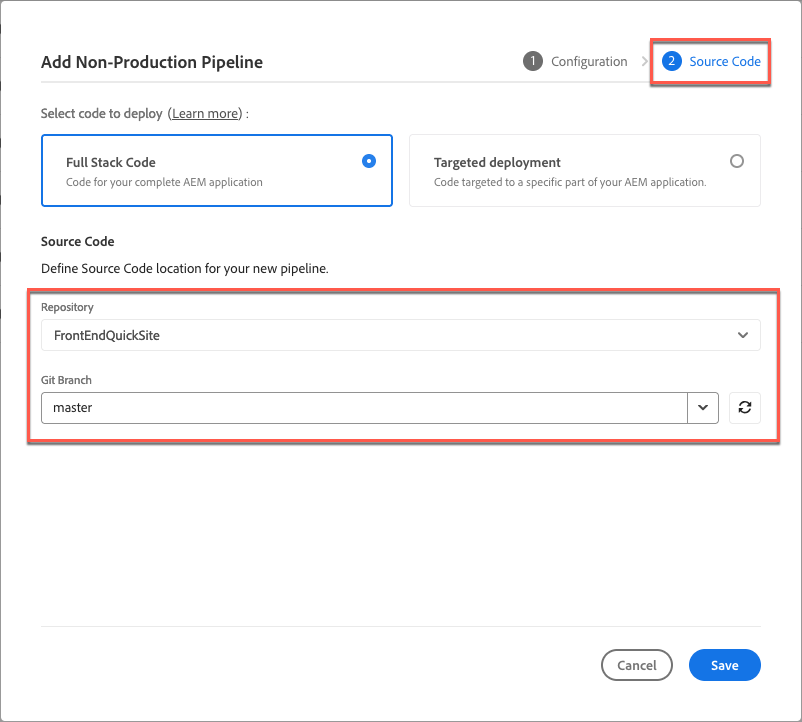
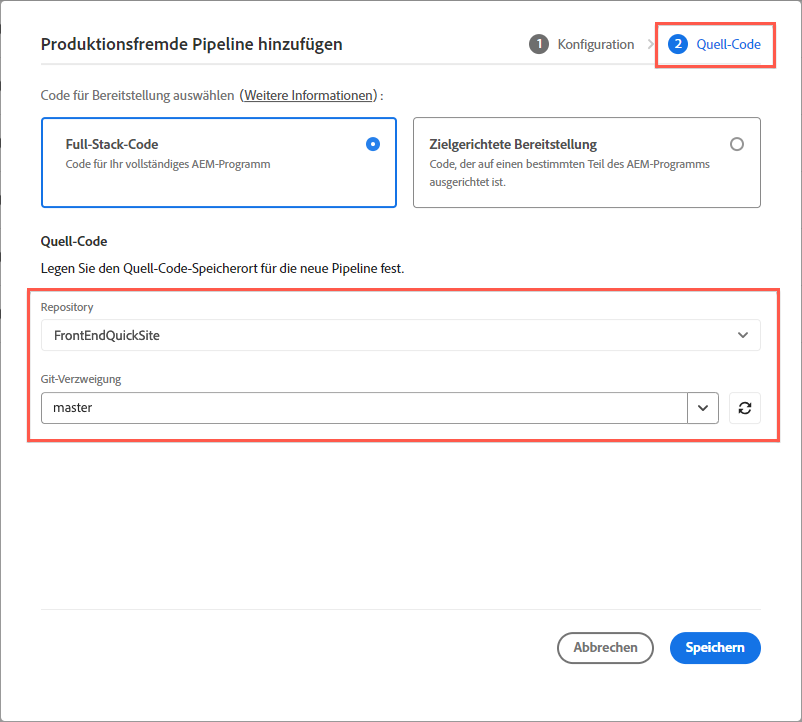
Updated by task 'AUTO_HANDOFF_1728480917442'  Changes for core/source commit https://git.corp.adobe.com/AdobeDocs/experience-manager-cloud-manager.en/commit/593ab468fb09900d061a4d820b8a1a33e2047237

diff --git a/help/managing-code/external-repositories.md b/help/managing-code/external-repositories.md
@@ -1,92 +1,92 @@
 ---
-title: Hinzufügen externer Repositorys in Cloud Manager (früher Adobe Experience Manager)
-description: Erfahren Sie, wie Sie ein externes Repository zu Cloud Manager hinzufügen. Cloud Manager unterstützt die Integration mit GitHub-, GitLab- und Bitbucket-Repositorys.
+title: Hinzufügen von externen Repositorys in Cloud Manager (Early Adopter)
+description: Erfahren Sie, wie Sie in Cloud Manager ein externes Repository hinzufügen. Cloud Manager unterstützt die Integration mit GitHub-, GitLab- und Bitbucket-Repositorys.
 source-git-commit: 054c214be3c8c6e8a8bd4691b70ae2098263ef5b
-workflow-type: tm+mt
+workflow-type: ht
 source-wordcount: '740'
-ht-degree: 6%
+ht-degree: 100%
 
 ---
 
 
-# Hinzufügen externer Repositorys in Cloud Manager {#external-repositories}
+# Hinzufügen von externen Repositorys in Cloud Manager {#external-repositories}
 
-Erfahren Sie, wie Sie ein externes Repository zu Cloud Manager hinzufügen. Cloud Manager unterstützt die Integration mit GitHub-, GitLab- und Bitbucket-Repositorys.
+Erfahren Sie, wie Sie in Cloud Manager ein externes Repository hinzufügen. Cloud Manager unterstützt die Integration mit GitHub-, GitLab- und Bitbucket-Repositorys.
 
 >[!NOTE]
 >
 >Diese Funktion ist nur für das [Early-Adopter-Programm](/help/release-notes/current.md#early-adoption) verfügbar.
 
-## Externes Repository konfigurieren
+## Konfigurieren eines externen Repositorys
 
 Die Konfiguration eines externen Repositorys in Cloud Manager erfolgt in drei Schritten:
 
-1. [Fügen Sie ein externes Repository hinzu](#add-external-repo), um es einem ausgewählten Programm hinzuzufügen.
-1. Stellen Sie ein Zugriffstoken für das externe Repository bereit.
+1. Fügen Sie einem ausgewählten Programm [ein externes Repository hinzu](#add-external-repo).
+1. Stellen Sie ein Zugriffs-Token für das externe Repository bereit.
 1. Validieren Sie die Eigentümerschaft des externen Repositorys.
 
 
-## Externes Repository hinzufügen {#add-ext-repo}
+## Hinzufügen eines externen Repositorys {#add-ext-repo}
 
 1. Melden Sie sich unter [my.cloudmanager.adobe.com](https://my.cloudmanager.adobe.com/) bei Cloud Manager an und wählen Sie die entsprechende Organisation aus.
 
 1. Wählen Sie in der Konsole **[Meine Programme](/help/getting-started/navigation.md#my-programs-console) das Programm aus, mit dem Sie ein externes Repository verknüpfen möchten.
 
 
-1. Wählen Sie im Seitenmenü unter **Dienste** das Symbol ![Ordner](https://spectrum.adobe.com/static/icons/workflow_18/Smock_Folder_18_N.svg) **Repositorys**.
+1. Wählen Sie im Seitenmenü unter **Services** ![Ordnersymbol](https://spectrum.adobe.com/static/icons/workflow_18/Smock_Folder_18_N.svg) **Repositorys** aus.
 
-   ![Die Seite &quot;Repositorys&quot;](/help/managing-code/assets/repositories-tab.png)
+   ![Die Seite „Repositorys“](/help/managing-code/assets/repositories-tab.png)
 
-1. Klicken Sie in der rechten oberen Ecke der Seite **Repositorys** auf **Repository hinzufügen**.
+1. Klicken Sie oben rechts auf der Seite **Repositorys** auf **Repository hinzufügen**.
 
 1. Wählen Sie im Dialogfeld **Repository hinzufügen** die Option **Privates Repository** aus, um ein externes Git-Repository mit Ihrem Programm zu verknüpfen.
 
    ![Eigenes Repository hinzufügen](/help/managing-code/assets/repositories-private-repo-type.png)
 
-1. Geben Sie in jedem Feld die folgenden Details zu Ihrem Repository an:
+1. Geben Sie in jedem Feld jeweils die folgenden Details zu Ihrem Repository an:
 
    | Feld | Beschreibung |
    | --- | --- |
-   | **Repository-Name** | Erforderlich. Ein ausdrucksstarker Name für Ihr neues Repository. |
-   | **Repository-URL** | Erforderlich. Die URL des Repositorys.<br><br> Wenn Sie ein von GitHub gehostetes Repository verwenden, muss der Pfad in `.git` enden.<br>Beispiel: *`https://github.com/org-name/repo-name.git`* (URL-Pfad dient nur zu Veranschaulichungszwecken).<br><br>Wenn Sie ein externes Repository verwenden, muss es das folgende URL-Pfadformat verwenden:<br>`https://git-vendor-name.com/org-name/repo-name.git`<br> oder <br>`https://self-hosted-domain/org-name/repo-name.git`<br> und mit Ihrem Git-Anbieter übereinstimmen. |
-   | **Repository-Typ auswählen** | Erforderlich. Wählen Sie den von Ihnen verwendeten Repository-Typ aus: **GitHub**, **GitLab** oder **BitBucket**. Wenn der obige Repository-URL-Pfad den Namen des Git-Anbieters enthält, z. B. GitLab oder Bitbucket, ist der Repository-Typ bereits für Sie vorausgewählt. |
-   | **Beschreibung** | Optional. Eine detaillierte Beschreibung des Repositorys. |
+   | **Repository-Name** | Erforderlich. Ein aussagekräftiger Name für Ihr neues Repository. |
+   | **Repository-URL** | Erforderlich. Die URL des Repositorys.<br><br> Wenn Sie ein von GitHub gehostetes Repository verwenden, muss der Pfad mit `.git` enden.<br>Beispiel: *`https://github.com/org-name/repo-name.git`* (URL-Pfad dient nur zu Illustrationszwecken).<br><br>Wenn Sie ein externes Repository verwenden, muss es das folgende URL-Pfadformat verwenden:<br>`https://git-vendor-name.com/org-name/repo-name.git`<br> oder <br>`https://self-hosted-domain/org-name/repo-name.git`<br>. Außerdem muss es mit Ihrem Git-Anbieter übereinstimmen. |
+   | **Repository-Typ auswählen** | Erforderlich. Wählen Sie den von Ihnen verwendeten Repository-Typ aus: **GitHub**, **GitLab** oder **BitBucket**. Wenn der obige Repository-URL-Pfad den Namen des Git-Anbieters enthält, z. B. GitLab oder Bitbucket, ist der Repository-Typ bereits für Sie vorausgewählt. |
+   | **Beschreibung** | Optional. Eine längere Beschreibung des Repositorys. |
 
-1. Wählen Sie **Speichern** aus, um das Repository hinzuzufügen.
+1. Wählen Sie **Speichern**, um das Repository hinzuzufügen.
 
-1. Geben Sie im Dialogfeld **Validierung der Eigentümerschaft des privaten Repositorys** ein Zugriffstoken an, um die Eigentümerschaft des externen Repositorys zu validieren, sodass Sie darauf zugreifen können.
+1. Geben Sie im Dialogfeld **Validierung der Eigentümerschaft eines privaten Repositorys** ein Zugriffs-Token an, um die Eigentümerschaft des externen Repositorys zu validieren, sodass Sie darauf zugreifen können.
 
-   ![Auswählen eines vorhandenen Zugriffstokens für ein Repository](/help/managing-code/assets/repositories-exisiting-access-token.png)
-   *Auswählen eines vorhandenen Zugriffstokens für ein BitBucket-Repository*
+   ![Auswählen eines vorhandenen Zugriffs-Tokens für ein Repository](/help/managing-code/assets/repositories-exisiting-access-token.png)
+   *Auswählen eines vorhandenen Zugriffs-Tokens für ein BitBucket-Repository.*
 
-   | Tokentyp | Beschreibung |
+   | Token-Typ | Beschreibung |
    | --- | --- |
-   | **Vorhandenes Zugriffs-Token verwenden** | Wenn Sie bereits ein Repository-Zugriffstoken für Ihre Organisation bereitgestellt haben und Zugriff auf mehrere Repositorys haben, können Sie ein vorhandenes Token auswählen. Verwenden Sie die Dropdownliste **Token-Name** , um das Token auszuwählen, das Sie auf das Repository anwenden möchten. Fügen Sie andernfalls ein neues Zugriffstoken hinzu. |
-   | **Neues Zugriffstoken hinzufügen** | **Repository-Typ: GitHub**<br> ・ Geben Sie im Textfeld **Token-Name** einen Namen für das Zugriffstoken ein, das Sie erstellen.<br> ・ Erstellen Sie ein persönliches Zugriffstoken, indem Sie die Anweisungen in der [GitHub-Dokumentation](https://docs.github.com/en/enterprise-server@3.14/authentication/keeping-your-account-and-data-secure/managing-your-personal-access-tokens) befolgen.<br> ・ erforderliche Berechtigungen:<br>  ・ `Read access to metadata`.<br>  ・ `Read and write access to code and pull requests`.<br> ・ Fügen Sie im Feld **Zugriffstoken** das soeben erstellte Token ein. |
-   |  | **Repository-Typ: GitLab**<br> ・ Geben Sie im Textfeld **Token-Name** einen Namen für das Zugriffstoken ein, das Sie erstellen.<br> ・ Erstellen Sie ein persönliches Zugriffstoken, indem Sie die Anweisungen in der [GitLab-Dokumentation](https://docs.gitlab.com/ee/user/profile/personal_access_tokens.html) befolgen.<br> ・ erforderliche Berechtigungen:<br>  ・ `api`<br>  ・ `read_api`<br>  ・ `read_repository`<br>  ・ `write_repository`<br> ・ Fügen Sie im Feld **Zugriffstoken** das soeben erstellte Token ein. |
-   |  | **Repository-Typ: Bitbucket**<br> ・ Geben Sie im Textfeld **Token-Name** einen Namen für das Zugriffstoken ein, das Sie erstellen.<br> ・ Erstellen Sie ein Repository-Zugriffstoken mithilfe der [Bitbucket-Dokumentation](https://support.atlassian.com/bitbucket-cloud/docs/create-a-repository-access-token/).<br> ・ erforderliche Berechtigungen:<br>  ・ `Read and write access to code and pull requests`. |
+   | **Vorhandenes Zugriffs-Token verwenden** | Wenn Sie bereits ein Repository-Zugriffs-Token für Ihre Organisation bereitgestellt haben und Zugriff auf mehrere Repositorys haben, können Sie ein vorhandenes Token auswählen. Verwenden Sie die Dropdown-Liste **Tokenname**, um das Token auszuwählen, das Sie auf das Repository anwenden möchten. Fügen Sie andernfalls ein neues Zugriffs-Token hinzu. |
+   | **Neues Zugriffs-Token hinzufügen** | **Repository-Typ: GitHub**<br>• Geben Sie im Textfeld **Tokenname** einen Namen für das Zugriffs-Token ein, das Sie erstellen.<br>• Erstellen Sie ein persönliches Zugriffs-Token, indem Sie die Anweisungen in der [GitHub-Dokumentation](https://docs.github.com/en/enterprise-server@3.14/authentication/keeping-your-account-and-data-secure/managing-your-personal-access-tokens) befolgen.<br>• Erforderliche Berechtigungen:<br>  • `Read access to metadata`.<br>  • `Read and write access to code and pull requests`.<br>• Fügen Sie im Feld **Zugriffs-Token** das soeben erstellte Token ein. |
+   |  | **Repository-Typ: GitLab**<br>• Geben Sie im Textfeld **Tokenname** einen Namen für das Zugriffs-Token ein, das Sie erstellen.<br>• Erstellen Sie ein persönliches Zugriffs-Token, indem Sie die Anweisungen in der [GitLab-Dokumentation](https://docs.gitlab.com/ee/user/profile/personal_access_tokens.html) befolgen.<br>• Erforderliche Berechtigungen:<br>  • `api`<br>  • `read_api`<br>  • `read_repository`<br>  • `write_repository`<br>• Fügen Sie im Feld **Zugriffs-Token** das soeben erstellte Token ein. |
+   |  | **Repository-Typ: Bitbucket**<br>• Geben Sie im Textfeld **Tokenname** einen Namen für das Zugriffs-Token ein, das Sie erstellen.<br>• Erstellen Sie ein Repository-Zugriffs-Token mithilfe der [Bitbucket-Dokumentation](https://support.atlassian.com/bitbucket-cloud/docs/create-a-repository-access-token/).<br>• Erforderliche Berechtigungen:<br>  • `Read and write access to code and pull requests`. |
 
    >[!NOTE]
    >
-   >Die Funktion &quot;**Neues Zugriffstoken hinzufügen**&quot; befindet sich derzeit in der Phase der frühen Teilnehmer. Zusätzliche Funktionen sind in Planung. Daher können sich die erforderlichen Berechtigungen für Zugriffstoken ändern. Darüber hinaus kann die Benutzeroberfläche für die Verwaltung von Tokens aktualisiert werden, möglicherweise einschließlich Funktionen wie Ablaufdaten von Token. Und automatisierte Prüfungen, um sicherzustellen, dass mit Repositorys verknüpfte Token gültig bleiben.
+   >Die Funktion „**Neues Zugriffs-Token hinzufügen**“ befindet sich derzeit in der Early-Adopter-Phase. Zusätzliche Funktionen sind in Planung. Daher können sich die erforderlichen Berechtigungen für Zugriffs-Token ändern. Darüber hinaus kann die Benutzeroberfläche für die Verwaltung von Token aktualisiert werden, möglicherweise einschließlich Funktionen wie Ablaufdaten von Token. Dazu gehören auch automatisierte Prüfungen, um sicherzustellen, dass mit Repositorys verknüpfte Token gültig bleiben.
 
-1. Klicken Sie auf **Validieren**.
+1. Klicken Sie auf **Überprüfen**.
 
-Nach der Validierung kann das externe Repository verwendet werden und eine Verknüpfung zu einer Pipeline herstellen.
+Nach der Überprüfung kann das externe Repository verwendet und mit einer Pipeline verknüpft werden.
 
 ## Verknüpfen eines validierten externen Repositorys mit einer Pipeline {#validate-ext-repo}
 
 1. Hinzufügen oder Bearbeiten einer Pipeline:
    * [Hinzufügen einer Produktions-Pipeline](/help/using/production-pipelines.md)
-   * [Nicht-Produktions-Pipelines hinzufügen](/help/using/non-production-pipelines.md)
-   * [Pipeline bearbeiten](/help/using/managing-pipelines.md#editing-pipelines)
+   * [Hinzufügen einer produktionsfremden Pipeline](/help/using/non-production-pipelines.md)
+   * [Bearbeiten einer Pipeline](/help/using/managing-pipelines.md#editing-pipelines)
 
-   ![Quellcode-Repository der Pipeline und Git-Verzweigung](/help/managing-code/assets/pipeline-repo-gitbranch.png)
-   *Dialogfeld &quot;Nicht-Produktions-Pipeline hinzufügen&quot;mit ausgewähltem Repository und Git-Verzweigung,*
+   ![Quell-Code-Repository der Pipeline und Git-Verzweigung](/help/managing-code/assets/pipeline-repo-gitbranch.png)
+   *Dialogfeld „Produktionsfremde Pipeline hinzufügen“ mit ausgewähltem Repository und Git-Verzweigung*
 
-1. Wählen Sie beim Hinzufügen oder Bearbeiten einer Pipeline zum Angeben des **Source-Code**-Speicherorts für die neue oder vorhandene Pipeline das zu verwendende externe Repository aus der Dropdownliste **Repository** aus.
+1. Wählen Sie beim Hinzufügen oder Bearbeiten einer Pipeline zum Angeben des **Quell-Code**-Speicherorts für die neue oder vorhandene Pipeline das zu verwendende externe Repository aus der Dropdown-Liste **Repository** aus.
 
-1. Wählen Sie in der Dropdownliste **Git-Verzweigung** die Verzweigung als Quelle für die Pipeline aus.
+1. Wählen Sie in der Dropdown-Liste **Git-Verzweigung** die Verzweigung als Quelle für die Pipeline aus.
 
 1. Klicken Sie auf **Speichern**.
 
@@ -99,4 +99,4 @@ Nach der Validierung kann das externe Repository verwendet werden und eine Verkn
 ## Einschränkungen
 
 * Externe Repositorys können nicht mit Konfigurations-Pipelines verknüpft werden.
-* Pipelines, die externe Repositorys verwenden (ausgenommen GitHub-gehostete Repositorys) und die Option **Deployment Trigger** [!UICONTROL **Bei Git-Änderungen**] werden Trigger nicht automatisch gestartet. Sie müssen manuell gestartet werden.
+* Bei Pipelines, die externe Repositorys (ausgenommen GitHub-gehostete Repositorys) und die Option **Bereitstellungsauslöser** [!UICONTROL **Bei Git-Änderungen**] verwenden, werden Auslöser nicht automatisch gestartet. Sie müssen manuell gestartet werden.

diff --git a/help/release-notes/current.md b/help/release-notes/current.md
@@ -3,9 +3,9 @@ title: Versionshinweise für Cloud Manager 2024.10.0
 description: Dies sind die Versionshinweise für Cloud Manager 2024.10.0.
 feature: Release Information
 source-git-commit: 74e8f7c0f3896e0e33a02b62c003db322c0d50d8
-workflow-type: tm+mt
+workflow-type: ht
 source-wordcount: '369'
-ht-degree: 27%
+ht-degree: 100%
 
 ---
 
@@ -23,44 +23,44 @@ Auf dieser Seite sind die Versionshinweise für [!UICONTROL Cloud Manager] 2024.
 
 <!-- SAVE FOR FUTURE POSSIBLE USE No notable bugs or features for the September release of Cloud Manager. -->
 
-Die Version von [!UICONTROL Cloud Manager] 2024.10.0 wurde am 3. Oktober 2024 veröffentlicht.
+Das Veröffentlichungsdatum für [!UICONTROL Cloud Manager] 2024.10.0 ist der 3. Oktober 2024.
 
-Die nächste Version ist für den Freitag, 14. November 2024 geplant.
+Die nächste Version ist für den 14. November 2024 geplant.
 
 
 
 ## Neue Funktionen {#what-is-new}
 
-* <!-- BOTH CS & AMS --> Die in Cloud Manager verwendete AEM Archetyp-Version wird jetzt auf Version 26 aktualisiert. Siehe [https://github.com/adobe/aem-project-archetype/releases](https://github.com/adobe/aem-project-archetype/releases)
+* <!-- BOTH CS & AMS --> Die in Cloud Manager verwendete AEM-Archetyp-Version wird jetzt auf Version 26 aktualisiert. Siehe [https://github.com/adobe/aem-project-archetype/releases](https://github.com/adobe/aem-project-archetype/releases)
 <!-- (CMGR-59817) -->
 
 
 
 ## Early-Adopter-Programm {#early-adoption}
 
-Nehmen Sie am Cloud Manager-Programm teil und haben Sie die Möglichkeit, bevorstehende Funktionen zu testen.
+Nehmen Sie am Early-Adopter-Programm von Cloud Manager teil und nutzen Sie die Möglichkeit, zukünftige Funktionen zu testen.
 
-### Eigenes Git - jetzt mit Unterstützung für GitLab und Bitbucket {#gitlab-bitbucket}
+### Bringen Sie Ihren eigenen Git mit – jetzt mit Unterstützung für GitLab und Bitbucket {#gitlab-bitbucket}
 
 <!-- BOTH CS & AMS -->
 
-Die Funktion **Eigenes Git holen** wurde erweitert und unterstützt jetzt auch externe Repositorys wie GitLab und Bitbucket. Diese neue Unterstützung ergänzt die bereits vorhandene Unterstützung für private und Enterprise-GitHub-Repositorys. Wenn Sie diese neuen Repos hinzufügen, können Sie sie auch direkt mit Ihren Pipelines verknüpfen. Sie können diese Repositorys auf öffentlichen Cloud-Plattformen oder in Ihrer privaten Cloud oder Infrastruktur hosten. Durch diese Integration entfällt auch die Notwendigkeit einer konstanten Codesynchronisation mit dem Adobe-Repository und bietet die Möglichkeit, Pull-Anforderungen zu validieren, bevor sie in einer Hauptverzweigung zusammengeführt werden.
+Die Funktion **Bringen Sie Ihren eigenen Git mit** wurde erweitert und unterstützt jetzt auch externe Repositorys wie GitLab und Bitbucket. Diese neue Unterstützung ergänzt die bereits vorhandene Unterstützung für private und Unternehmens-GitHub-Repositorys. Wenn Sie diese neuen Repositorys hinzufügen, können Sie sie auch direkt mit Ihren Pipelines verknüpfen. Sie können diese Repositorys auf öffentlichen Cloud-Plattformen oder in Ihrer privaten Cloud oder Infrastruktur hosten. Durch diese Integration entfällt auch die Notwendigkeit der konstanten Code-Synchronisation mit dem Adobe-Repository. Sie bietet weiterhin die Möglichkeit, Pull-Anfragen zu überprüfen, bevor sie in einer Hauptverzweigung zusammengeführt werden.
 
-Siehe [Hinzufügen externer Repositorys in Cloud Manager](/help/managing-code/external-repositories.md).
+Siehe [Hinzufügen von externen Repositorys in Cloud Manager](/help/managing-code/external-repositories.md).
 
 ![Dialogfeld „Repository hinzufügen“](/help/release-notes/assets/repositories-add-release-notes.png)
 
 >[!NOTE]
 >
->Derzeit sind die vordefinierten Qualitätsprüfungen für Pull-Anforderungscode ausschließlich für von GitHub gehostete Repositorys verfügbar. Es wird jedoch ein Update vorgenommen, um diese Funktion auf andere Git-Anbieter zu erweitern.
+>Derzeit sind vorkonfigurierte Code-Qualitätsprüfungen für Pull-Anfragen ausschließlich für von GitHub gehostete Repositorys verfügbar. Es ist jedoch ein Update in Arbeit, um diese Funktionen auf andere Git-Anbieter zu erweitern.
 
-Wenn Sie diese neue Funktion testen und Ihr Feedback teilen möchten, senden Sie eine E-Mail von Ihrer mit Ihrer Adobe ID verknüpften E-Mail-Adresse an [Grp-CloudManager_BYOG@adobe.com](mailto:Grp-CloudManager_BYOG@adobe.com). Stellen Sie sicher, dass Sie angeben, welche Git-Plattform Sie verwenden möchten und ob Sie sich in einer privaten/öffentlichen oder Enterprise-Repository-Struktur befinden.
+Wenn Sie diese neue Funktion testen und uns Ihr Feedback mitteilen möchten, senden Sie über die mit Ihrer Adobe ID verknüpfte E-Mail-Adresse eine E-Mail an [Grp-CloudManager_BYOG@adobe.com](mailto:Grp-CloudManager_BYOG@adobe.com). Geben Sie unbedingt an, welche Git-Plattform Sie verwenden möchten und ob Sie sich in einer privaten/öffentlichen oder einer Unternehmens-Repository-Struktur befinden.
 
 ### Reine Staging- und reine Produktions-Pipelines {#staging-production-only-pipelines}
 
-Adobe kündigt die Einführung der Unterstützung für [reine Staging- und reine Produktionslinien](/help/using/stage-prod-only.md) an. Mit dieser neuen Funktion können Sie Full-Stack-Produktions-Bereitstellungs-Pipelines in kleinere, spezialisierte Bereitstellungen aufteilen.
+Adobe kündigt die Einführung von Unterstützung für [reine Staging- und reine Produktions-Pipelines](/help/using/stage-prod-only.md) an. Mit dieser neuen Funktion können Sie Full-Stack-Produktions-Bereitstellungs-Pipelines in kleinere, spezialisierte Bereitstellungen aufteilen.
 
-Wenn Sie diese Funktion testen und Feedback geben möchten, senden Sie eine E-Mail an [Grp-cloudmanager_splitpipelines@adobe.com](mailto:Grp-cloudmanager_splitpipelines@adobe.com) aus Ihrer mit Ihrer Adobe ID verknüpften E-Mail-Adresse.
+Wenn Sie diese neue Funktion testen und Ihr Feedback teilen möchten, senden Sie über die mit Ihrer Adobe ID verknüpfte E-Mail-Adresse eine E-Mail an [Grp-cloudmanager_splitpipelines@adobe.com](mailto:Grp-cloudmanager_splitpipelines@adobe.com).
 
 <!-- ## Bug fixes
 

diff --git a/help/using/managing-pipelines.md b/help/using/managing-pipelines.md
@@ -3,9 +3,9 @@ title: Verwalten von Pipelines
 description: Erfahren Sie, wie Sie Ihre vorhandenen Pipelines verwalten, einschließlich Ausführen, Bearbeiten und Löschen.
 exl-id: e36420d2-57c5-4375-99fb-dd47c1c8bffd
 source-git-commit: 9d910e1b1a4aad000a8389ddc22ce380bbccd4ef
-workflow-type: tm+mt
+workflow-type: ht
 source-wordcount: '840'
-ht-degree: 89%
+ht-degree: 100%
 
 ---
 
@@ -34,13 +34,13 @@ Am Ende der Pipeline-Liste befinden sich die folgenden allgemeinen Optionen:
 * **Auf Repository-Informationen zugreifen**: Zeigt die Informationen an, die für den Zugriff auf das Cloud Manager-Git-Repository erforderlich sind.
 * **Weitere Infos**: Navigiert zu den Dokumentationsressourcen zur CI/CD-Pipeline.
 
-## Pipelines-Seite {#pipelines}
+## Seite „Pipelines“ {#pipelines}
 
-Auf der Seite **Pipelines** wird eine vollständige Liste aller Pipelines für das ausgewählte Programm angezeigt. Dies ist nützlich, da es umfassendere Informationen enthält als der Abschnitt [Pipeline-Karte](#pipeline-card).
+Die Seite **Pipelines** zeigt eine vollständige Liste aller Pipelines für das ausgewählte Programm an. Dies ist nützlich, da es umfassendere Informationen enthält als der Abschnitt [Pipeline-Karte](#pipeline-card).
 
 1. Melden Sie sich unter [my.cloudmanager.adobe.com](https://my.cloudmanager.adobe.com/) bei Cloud Manager an und wählen Sie die entsprechende Organisation sowie das entsprechende Programm aus.
 
-1. Klicken Sie auf der Seite **Programmübersicht** auf die Registerkarte **Pipelines** , um zur Seite **Pipelines** zu wechseln.
+1. Klicken Sie auf der Seite **Programmübersicht** auf die Registerkarte **Pipelines**, um zur Seite **Pipelines** zu wechseln.
 
 1. Hier können Sie eine Liste aller Pipelines für das Programm sehen und die Ausführung von Pipelines starten und stoppen, wie Sie es in der **Pipelines-Karte** tun würden.
 
@@ -50,13 +50,13 @@ Durch Klicken auf das Symbol `i` erhalten Sie Details über die letzte oder aktu
 
 Klicken Sie auf **Details anzeigen**, um zu den [Details zur Pipeline-Ausführung](#view-details) zu gelangen.
 
-## Aktivitätsseite {#activity}
+## Seite „Aktivität“ {#activity}
 
-Die Seite **Aktivitäten** enthält eine vollständige Liste aller Pipelines, die für das ausgewählte Programm ausgeführt werden.
+Die Seite **Aktivität** zeigt eine vollständige Liste aller Pipeline-Ausführungen für das ausgewählte Programm an.
 
 1. Melden Sie sich unter [my.cloudmanager.adobe.com](https://my.cloudmanager.adobe.com/) bei Cloud Manager an und wählen Sie die entsprechende Organisation sowie das entsprechende Programm aus.
 
-1. Klicken Sie auf der Seite **Programmübersicht** auf die Registerkarte **Aktivität** , um zur Seite **Aktivität** zu wechseln.
+1. Klicken Sie auf der Seite **Programmübersicht** auf die Registerkarte **Aktivität**, um zur Seite **Aktivität** zu wechseln.
 
 1. Hier sehen Sie eine Liste aller Pipeline-Ausführungen für das Programm, einschließlich aktueller und vorheriger Ausführungen.
 

diff --git a/help/main-toc/TOC.md b/help/main-toc/TOC.md
@@ -8,9 +8,9 @@ feature-set: Experience Manager Cloud Manager, Experience Manager
 feature: Cloud Manager
 role: Admin
 source-git-commit: 1209faf71edbd74cd87acfe24ec438b98ddd4a3a
-workflow-type: tm+mt
+workflow-type: ht
 source-wordcount: '342'
-ht-degree: 73%
+ht-degree: 100%
 
 ---
 
@@ -29,7 +29,7 @@ ht-degree: 73%
    + [Zugriffsrechte](/help/requirements/access-rights.md)
    + [Quell-Code-Repository](/help/requirements/source-code-repository.md)
    + [Rollenbasierte Berechtigungen](/help/requirements/role-based-permissions.md)
-   + [Einrichten von Anwendern und Rollen](/help/requirements/users-and-roles.md)
+   + [Einrichten von Anwendenden und Rollen](/help/requirements/users-and-roles.md)
    + [Benutzerdefinierte Berechtigungen](/help/using/custom-permissions.md)
    + [Umgebungsbereitstellung](/help/requirements/environment-provisioning.md)
 + Erste Schritte {#getting-started}
@@ -46,7 +46,7 @@ ht-degree: 73%
    + CI/CD-Pipelines {#pipelines}
       + [Konfigurieren einer Produktions-Pipeline](/help/using/production-pipelines.md)
       + [Konfigurieren einer produktionsfremden Pipeline](/help/using/non-production-pipelines.md)
-      + [Geteilte Staging- und Nur-Produktion-Pipelines (früher Adopter)](/help/using/stage-prod-only.md)
+      + [Geteilte Staging- und reine Produktions-Pipelines (Early Adopter)](/help/using/stage-prod-only.md)
       + [Verwalten von Pipelines](/help/using/managing-pipelines.md)
    + [Code-Bereitstellung](/help/using/code-deployment.md)
    + [Testen der Code-Qualität](/help/using/code-quality-testing.md)
@@ -57,12 +57,12 @@ ht-degree: 73%
    + [Benachrichtigungen](/help/using/notifications.md)
    + [Qualitätsregeln für benutzerspezifischen Code](/help/using/custom-code-quality-rules.md)
    + [Inhaltskopie](/help/using/content-copy.md)
-+ Code verwalten {#managing-code}
++ Verwalten von Code {#managing-code}
    + [Verwalten von Repositorys in Cloud Manager](/help/managing-code/managing-repositories.md)
    + [Repository-Zugriffsinformationen](/help/managing-code/accessing-repositories.md)
-   + [Adobe-Repository hinzufügen](/help/managing-code/adobe-repositories.md)
-   + [Privates Repository hinzufügen](/help/managing-code/private-repositories.md)
-   + [Externes Repository hinzufügen (frühe Anwendung)](/help/managing-code/external-repositories.md)
+   + [Hinzufügen eines Adobe-Repositorys](/help/managing-code/adobe-repositories.md)
+   + [Hinzufügen eines privaten Repositorys](/help/managing-code/private-repositories.md)
+   + [Hinzufügen eines externen Repositorys (Early Adopter)](/help/managing-code/external-repositories.md)
    + [Unterstützung von Git-Untermodulen](/help/managing-code/git-submodules.md)
    + [Konfiguration der GitHub-Prüfung](/help/managing-code/github-check-config.md)
    + [Anmerkungen zur GitHub-Prüfung](/help/managing-code/github-annotations.md)

diff --git a/help/managing-code/private-repositories.md b/help/managing-code/private-repositories.md
@@ -4,9 +4,9 @@ description: Erfahren Sie, wie Sie Cloud Manager für die Arbeit mit Ihren eigen
 feature: Release Information
 exl-id: e0d103c9-c147-4040-bf53-835e93d78a0b
 source-git-commit: 5090d7ee9a6742d71122acda9901d074bc254305
-workflow-type: tm+mt
+workflow-type: ht
 source-wordcount: '818'
-ht-degree: 98%
+ht-degree: 100%
 
 ---
 
@@ -32,7 +32,7 @@ Die Konfiguration erfolgt in zwei Hauptschritten:
 
 
 
-### Repository hinzufügen {#add-repo}
+### Hinzufügen eines Repositorys {#add-repo}
 
 1. Klicken Sie in Cloud Manager auf der Seite **Programmübersicht** auf die Registerkarte **Repositorys**, um zur Seite **Repositorys** zu wechseln. Klicken Sie dann auf **Repository hinzufügen**.
 
@@ -54,7 +54,7 @@ Die Konfiguration erfolgt in zwei Hauptschritten:
 
 
 
-### Überprüfen des Eigentums an einem privaten Repository {#validate-ownership}
+### Validieren der Eigentümerschaft eines privaten Repositorys {#validate-ownership}
 
 Cloud Manager kennt jetzt Ihr GitHub-Repository, benötigt aber noch den Zugriff darauf. Um Zugriff zu gewähren, müssen Sie die Adobe GitHub-App installieren und sicherstellen, dass Sie Eigentümerin bzw. Eigentümer des angegebenen Repositorys sind.
 
@@ -133,7 +133,7 @@ Validierte private Repositorys können [Full-Stack- und Frontend-Pipelines zugeo
 Bei der Verwendung privater Repositorys mit Cloud Manager gelten bestimmte Einschränkungen.
 
 * Pipelines auf Web-Ebene und Konfigurations-Pipelines werden bei privaten Repositorys nicht unterstützt.
-* Bei Verwendung privater Repositorys in Full-Stack-Produktions-Pipelines wird kein Git-Tag erstellt und gesendet.
+* Bei Verwendung privater Repositorys in Full-Stack-Produktions-Pipelines wird kein Git-Tag erstellt und gepusht.
 * Wenn die Adobe-GitHub-App aus Ihrer GitHub-Organisation entfernt wird, wird dadurch auch die Funktion zur Validierung von Pull-Anfragen für alle Repositorys entfernt.
 * Pipelines, die private Repositorys und den On-Commit-Build-Trigger verwenden, werden nicht automatisch gestartet, wenn ein neues Commit in die ausgewählte Verzweigung verschoben wird.
 * Die [Funktion zur Wiederverwendung von Artefakten](/help/getting-started/project-setup.md#build-artifact-reuse) gilt nicht für private Repositorys.

diff --git a/help/using/non-production-pipelines.md b/help/using/non-production-pipelines.md
@@ -3,9 +3,9 @@ title: Hinzufügen einer produktionsfremden Pipeline
 description: Erfahren Sie, wie Sie mit Cloud Manager produktionsfremde Pipelines erstellen und konfigurieren, um Code bereitzustellen.
 exl-id: ccf4b4a2-6e29-4ede-821c-36318b568e5c
 source-git-commit: 1209faf71edbd74cd87acfe24ec438b98ddd4a3a
-workflow-type: tm+mt
+workflow-type: ht
 source-wordcount: '688'
-ht-degree: 98%
+ht-degree: 100%
 
 ---
 
@@ -31,7 +31,7 @@ Es gibt zwei Arten von produktionsfremden Pipelines:
 >
 >Die Pipeline kann erst eingerichtet werden, wenn das zugehörige Git-Repository mindestens eine Verzweigung hat und die [Programmeinrichtung](/help/getting-started/program-setup.md) abgeschlossen ist. Informationen zum Hinzufügen und Verwalten von Repositorys in Cloud Manager finden Sie unter [Cloud Manager-Repositorys](/help/managing-code/managing-repositories.md).
 
-## Neue produktionsfremde Pipeline hinzufügen {#add-non-production-pipeline}
+## Hinzufügen einer neuen produktionsfremden Pipeline {#add-non-production-pipeline}
 
 Sobald Sie mit der Benutzeroberfläche von Cloud Manager Ihr Programm eingerichtet und mindestens eine Umgebung haben, können Sie eine produktionsfremde Pipeline hinzufügen, indem Sie die folgenden Schritte ausführen.
 

diff --git a/help/managing-code/accessing-repositories.md b/help/managing-code/accessing-repositories.md
@@ -3,7 +3,7 @@ title: Repository-Zugriffsinformationen
 description: Erfahren Sie, wie Sie mithilfe der Self-Service-Verwaltung der Git-Repositorys über Cloud Manager auf Ihre von Adobe verwalteten Git-Repositorys zugreifen und diese verwalten können.
 exl-id: 1cc88c82-67c7-4553-a1b8-d2ab22be466c
 source-git-commit: 04fbc4a3fdba8b108055d66a4fdb1a31994cb18e
-workflow-type: tm+mt
+workflow-type: ht
 source-wordcount: '381'
 ht-degree: 100%
 

diff --git a/help/using/production-pipelines.md b/help/using/production-pipelines.md
@@ -3,9 +3,9 @@ title: Hinzufügen einer Produktions-Pipeline
 description: Erfahren Sie, wie Sie mit Cloud Manager Produktions-Pipelines erstellen und konfigurieren, um Code bereitzustellen.
 exl-id: d489fa3c-df1e-480b-82d0-ac8cce78a710
 source-git-commit: 1209faf71edbd74cd87acfe24ec438b98ddd4a3a
-workflow-type: tm+mt
+workflow-type: ht
 source-wordcount: '1249'
-ht-degree: 99%
+ht-degree: 100%
 
 ---
 

diff --git a/help/release-notes/2024/2024-9-0.md b/help/release-notes/2024/2024-9-0.md
@@ -3,7 +3,7 @@ title: Versionshinweise für Cloud Manager 2024.9.0
 description: Dies sind die Versionshinweise für Cloud Manager 2024.9.0.
 feature: Release Information
 source-git-commit: 9d910e1b1a4aad000a8389ddc22ce380bbccd4ef
-workflow-type: tm+mt
+workflow-type: ht
 source-wordcount: '184'
 ht-degree: 100%
 
